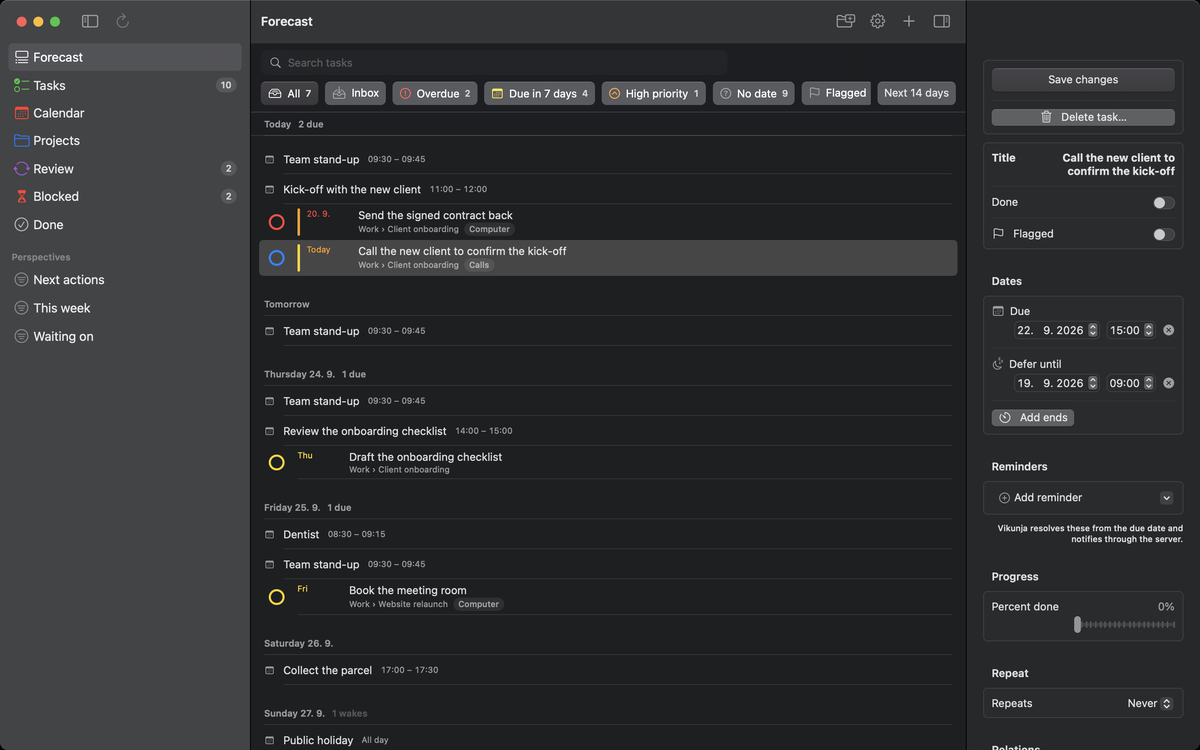
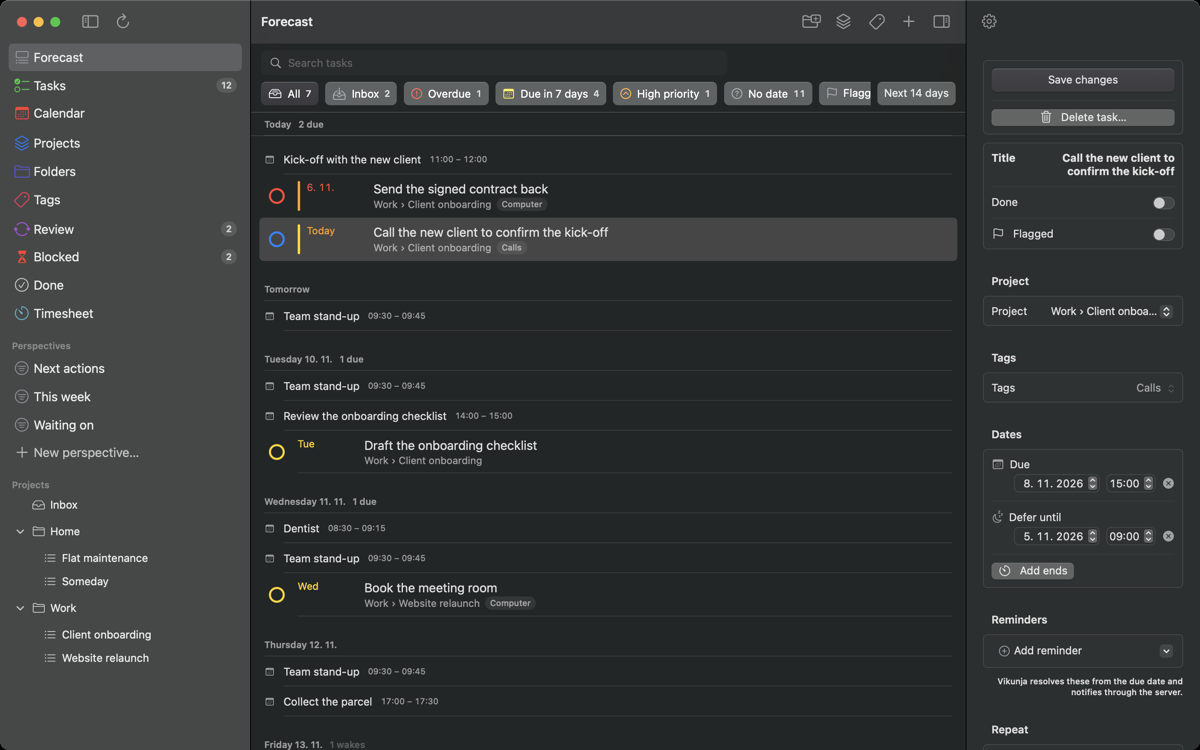
Home: Mac shots from 1.2 (sidebar with Folders, Tags and Timesheet)

diff --git a/index.html b/index.html
@@ -81,7 +81,7 @@
       <p class="hero-note">Free to use. Your tasks stay on your own server.</p>
     </div>
     <div class="devices">
-      <img class="dev-mac" src="screens/mac-forecast.png" alt="Blaha on the Mac: a sidebar of screens and perspectives, a forecast of the days ahead, and the selected task open in a third column." width="1200" height="750">
+      <img class="dev-mac" src="screens/mac-forecast.png?v=2" alt="Blaha on the Mac: a sidebar of screens and perspectives, a forecast of the days ahead, and the selected task open in a third column." width="1200" height="750">
       <img class="dev-phone" src="screens/iphone-forecast.png" alt="Blaha on an iPhone showing Forecast: today's calendar events listed beside the tasks that are due." width="600" height="1303">
     </div>
   </div>
@@ -120,7 +120,7 @@
     <h2>Projects that cannot quietly go stale.</h2>
     <p>Nested projects, grouped in folders, with their available and deferred work separated. Each project gets a review cycle, and Blaha tells you when one is due.</p>
   </div>
-  <figure class="row-shot"><img class="mac" src="screens/mac-project.png" alt="A project on the Mac: its review cycle, available tasks, a deferred task, and the selected task open beside them." width="1200" height="750" loading="lazy"></figure>
+  <figure class="row-shot"><img class="mac" src="screens/mac-project.png?v=2" alt="A project on the Mac: its review cycle, available tasks, a deferred task, and the selected task open beside them." width="1200" height="750" loading="lazy"></figure>
 </section>
 
 <section class="row flip">
